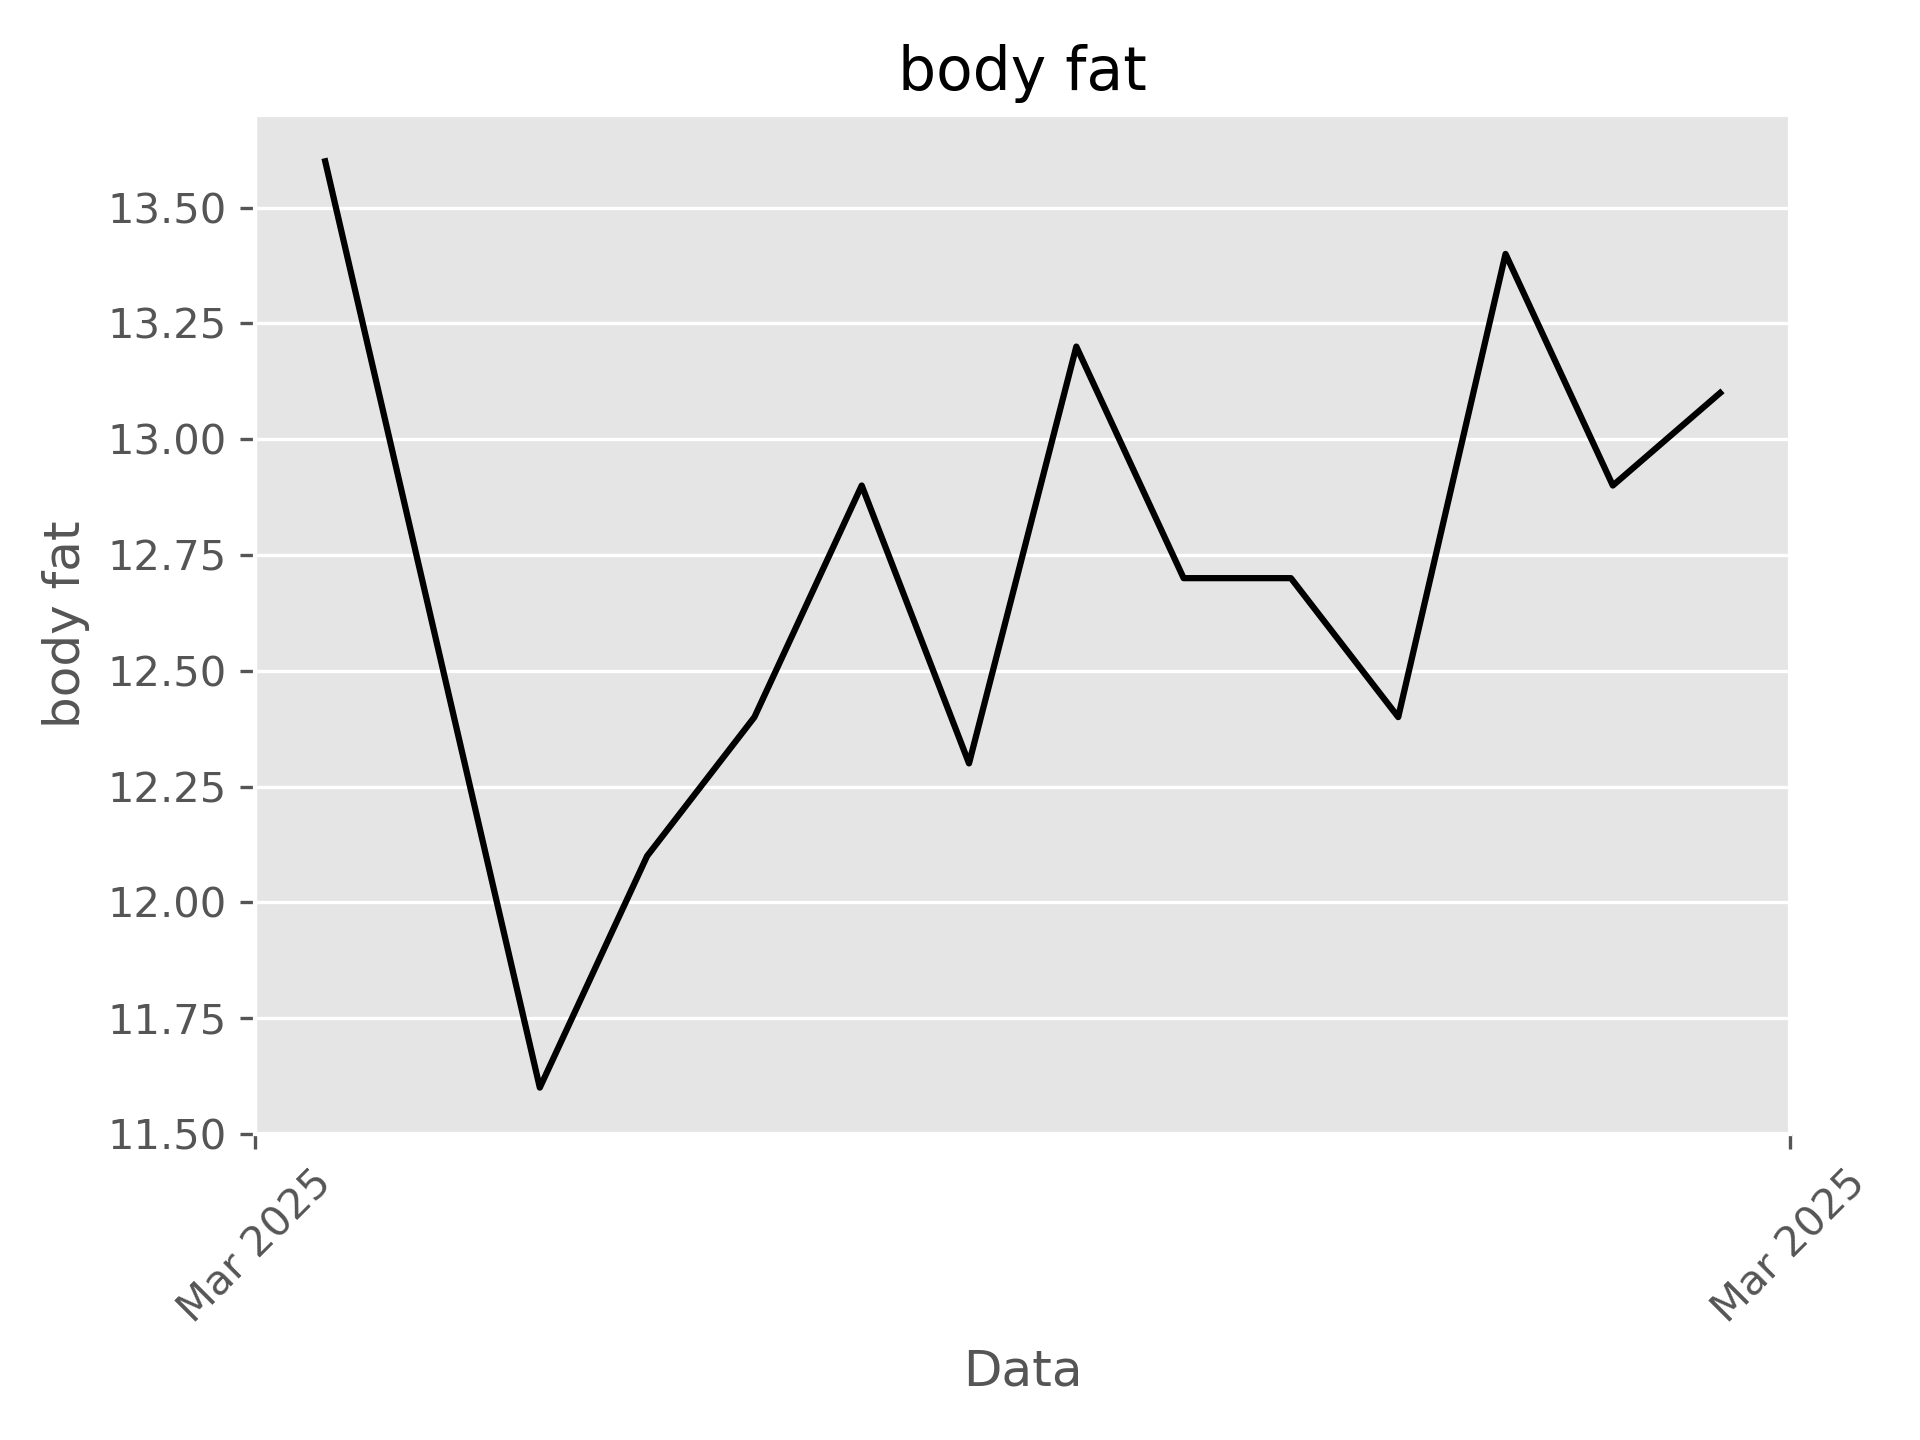
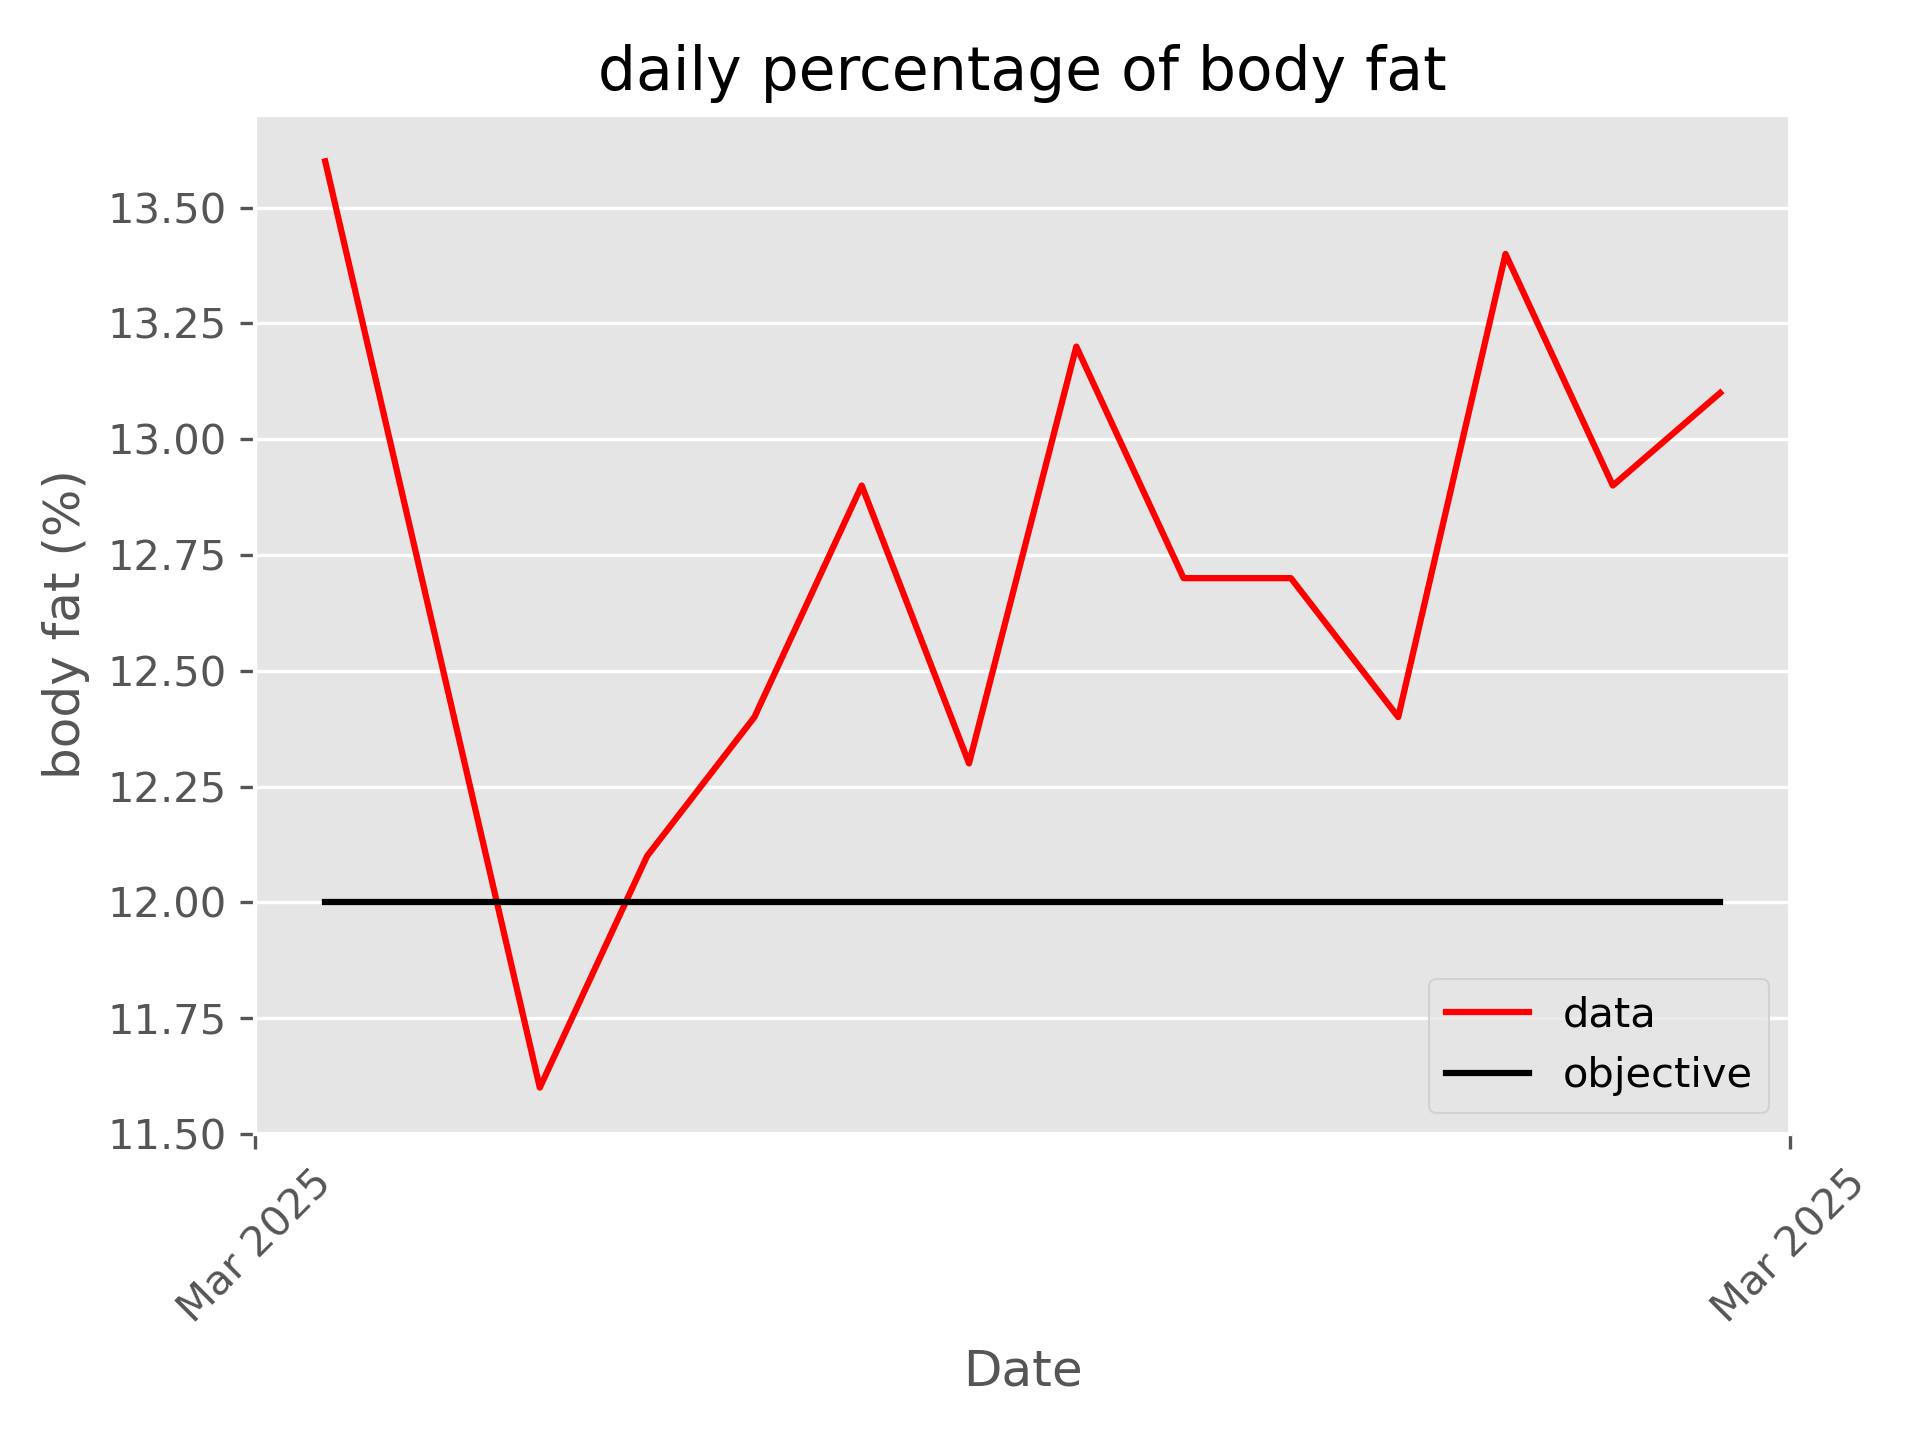
add new information body fat and objective

diff --git a/update.py b/update.py
@@ -14,6 +14,7 @@ dt = pd.to_datetime(peso.iloc[:,0], format='%d/%m/%Y')
 fat = pd.read_csv('files/fat.txt')
 fat_v = fat.iloc[:, 1]
 fat_dt = pd.to_datetime(fat.iloc[:,0], format='%d/%m/%Y')
+fat_v_obj = np.ones(len(fat_v))*12
 
 muscular_mass = pd.read_csv('files/muscular_mass.txt')
 musc_v = muscular_mass.iloc[:,1]
@@ -85,11 +86,12 @@ plt.savefig('image/daily_muscular.png', dpi=300)
 plt.close()
 
 #body fat
-plt.plot(fat_dt, fat_v, color='black')
-plt.ylabel('body fat')
-plt.title('body fat')
-plt.xlabel('Data')
-#plt.legend()
+plt.plot(fat_dt, fat_v, color='red', label='data')
+plt.plot(fat_dt, fat_v_obj, color='black', label='objective')
+plt.ylabel('body fat (%)')
+plt.title('daily percentage of body fat')
+plt.xlabel('Date')
+plt.legend()
 plt.gca().xaxis.set_major_formatter(mdates.DateFormatter("%b %Y"))  # Exemplo: 'Jan 2023'
 plt.gca().xaxis.set_major_locator(mdates.MonthLocator())  # Colocar um marcador por mês
 # Melhorar a visualização das labels no eixo X
